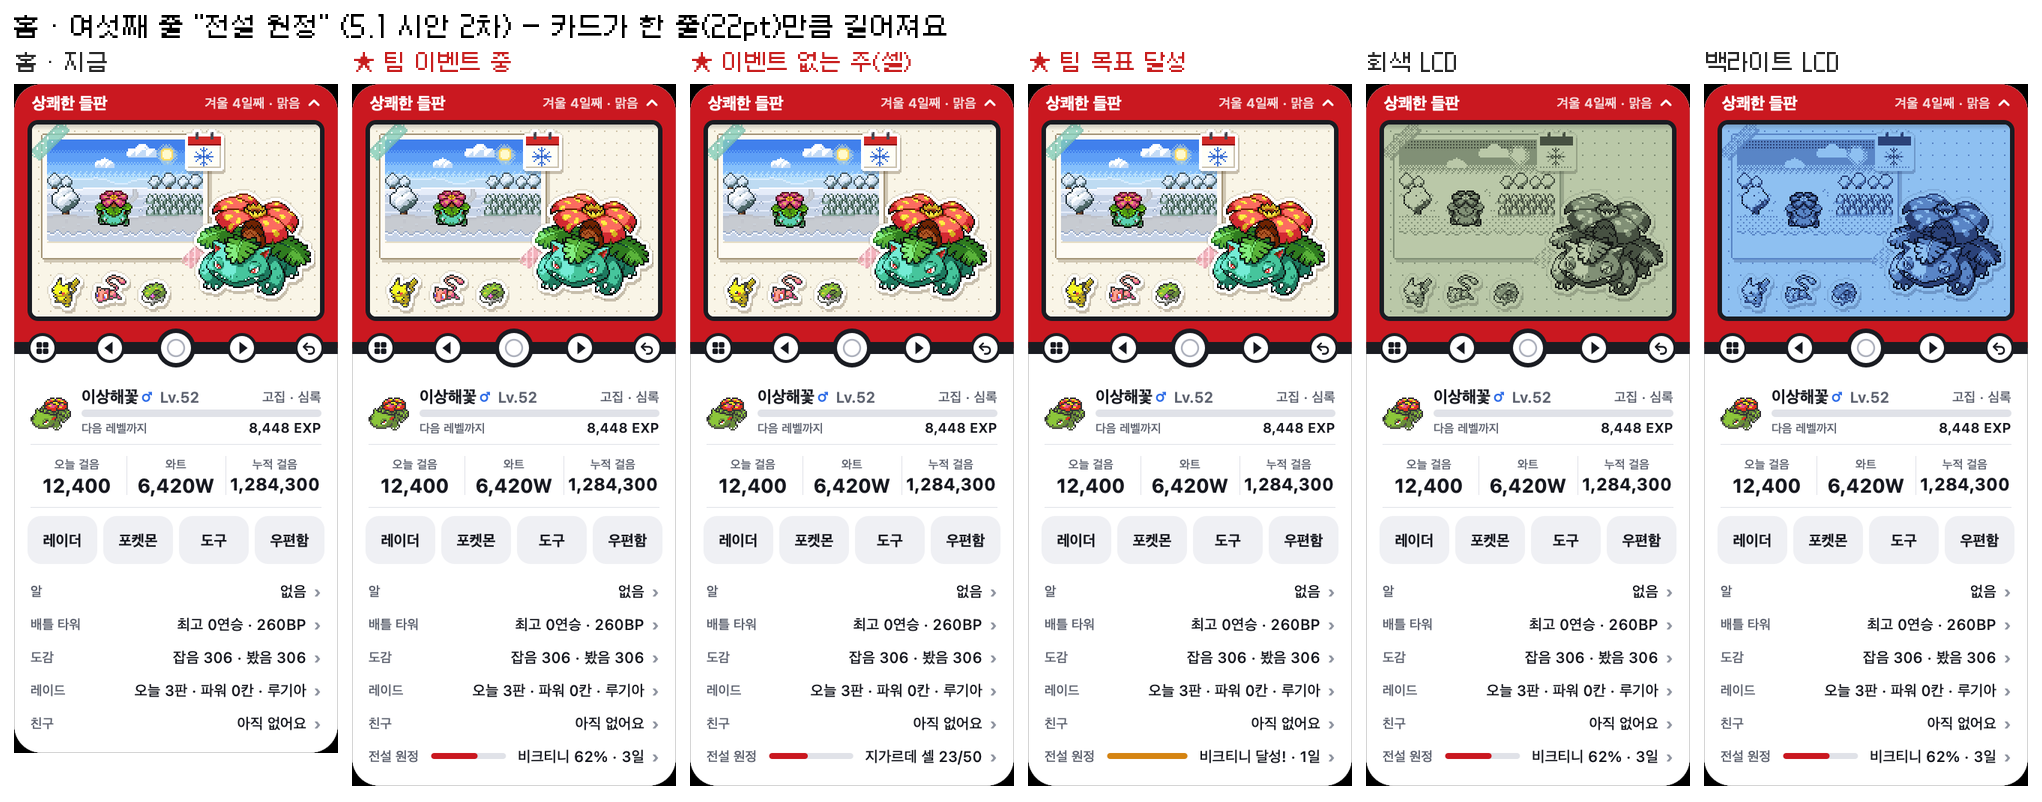
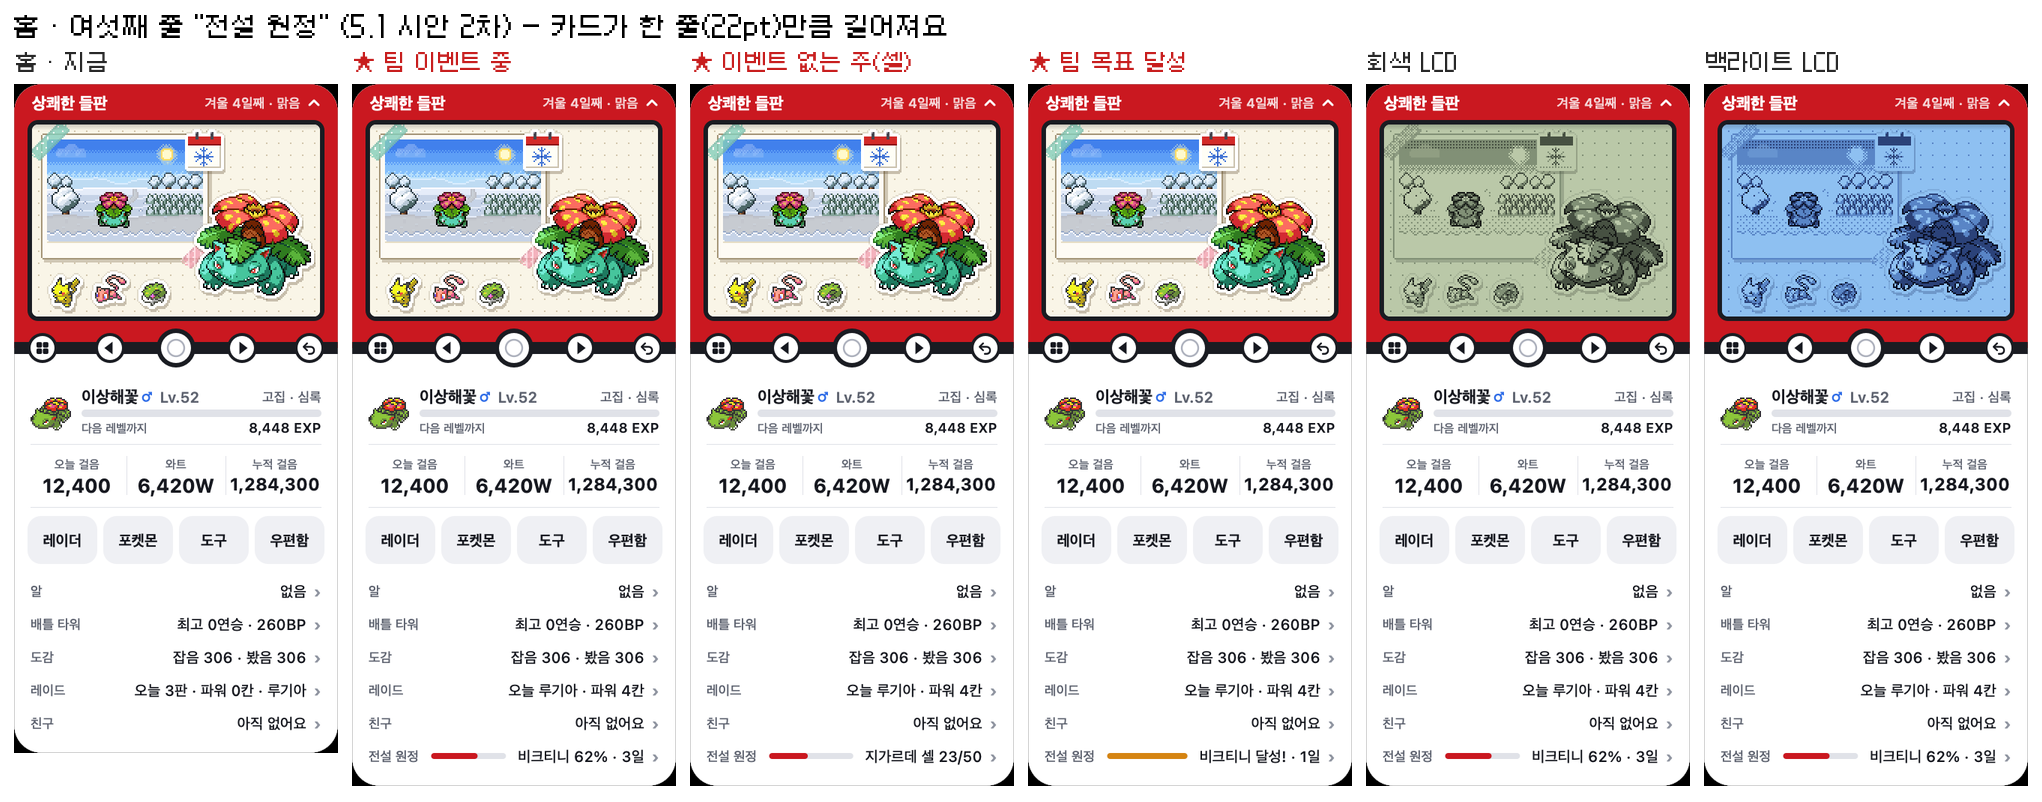
5.1 mockups, third round (the user via 회사 10-16: 레이드 its own tile, 우편함 into 친구 ▸, "친구 메뉴에 랭킹", the 친구 page's rank tabs into 랭킹, "우편 삭제", the 메가진화 tick "표시만 빠져"): the first page's eight (레이더 · 모험 · 포켓몬 · 기록 · 배틀 · 레이드 · 친구 · 상점), 레이드 ▸ · 배틀 ▸ · 친구 ▸ (친구 · 교환 · 랭킹 · 우편함, the mail's dot), 친구 (친구 · 신청 ·
Claude-Session: https://claude.ai/code/session_019KTwpKn2jnYrdo4Y4LYsjs

diff --git a/docs/mockups/exp-5.1/README.md b/docs/mockups/exp-5.1/README.md
@@ -7,6 +7,88 @@
   - 숫자(팀 93만 걸음, 셀 23개 등)는 시안용이에요. 실제 저장 모양(Walk.expeditions)과 act는 서버가 정해서 알려 줘요.
 - ★가 붙은 것이 추천안이에요.
 
+## 3차(10-16): 사용자 답 반영 — 지금 볼 것
+
+사용자 원문:
+- "1. 모험으로 바꾸고 코스와 전설원정 넣는 방식 2. 양호 3. 양호 4. 레이드를 아에 상위메뉴로 하나 빼고 …"
+- "다 한번에 모을거면 친구 메뉴에 랭킹을 넣자"
+- "친구창에 있는 걸음,도감,타워,레이드 이것도 랭킹 화면으로"
+- "상위 메뉴가 하나 늘어나게 되니까 우편함을 친구에 같이 넣어버리자"
+- "하는김에 우편함 우편 삭제 기능도 추가해줘"
+- 배틀 메가 체크: "표시만 빠져"
+
+확정되어 5.1 코드에 들어가는 것: 모험 ▸ 코스 · 전설 원정, 홈 여섯째 줄 "전설 원정", 원정은 한 번에 하나.
+
+### 3차 그림
+
+| 파일 | 내용 |
+|---|---|
+| `r3-menu.png` | 첫 쪽 8칸(1 레이더 · 2 모험 · 3 포켓몬 · 4 기록 · 5 배틀 · 6 레이드 · 7 친구 · 8 상점), 레이드 ▸ · 배틀 ▸ · 친구 ▸ · 모험 ▸ |
+| `r3-rank-1.png` · `r3-rank-2.png` | 친구 ▸ 친구(탭 친구 · 신청 · 맡기기 · 전체), 친구 ▸ 랭킹(걸음 · 도감 · 타워 · 레이드 · 메가 레이드, 친구 / 전체) |
+| `r3-mail-raid.png` | 우편 지우기(목록 · 받을 것이 남은 우편 · 공지), 홈(레이드 줄 · 여섯째 줄), 레이드 0시 직후 · 오늘의 보스, 메가 레이드 |
+| `mega-tick.png` | 배틀 메가진화 체크: 지금(누르면 빠져 보임) / 고친 뒤 |
+| `relearn-sig.png` | 기술 바꾸기에 들어온 고유기(서버 4187b09): 가이오가 근원의파동, 그란돈 단애의칼, 뮤츠 사이코브레이크 |
+| `r3-windows.png` | 3차 화면들의 Windows 렌더 |
+
+### 메뉴
+
+- 첫 쪽은 8칸 그대로예요. 숫자 키 1~8이 위 순서예요(5 배틀 · 6 레이드 · 7 친구 · 8 상점이 새 자리).
+- 레이드 ▸ 레이드 · 메가 레이드. 칸 설명은 "오늘 루기아 · 파워 4칸"이에요.
+- 배틀 ▸ 배틀 타워 · 대전. 칸 설명은 "최고 n연승"이고, 파워는 레이드 칸으로 갔어요.
+- 친구 ▸ 친구 · 교환 · 랭킹 · 우편함
+  - 받을 우편이 있으면 친구 칸에 빨간 점이 뜨고, 칸 설명이 "받을 우편 2통"이 돼요.
+  - 홈의 '우편함' 바로가기(빨간 점)는 그대로이고 바로 열려요.
+- 5.1 코드에서 챙길 것: 메뉴가 기억하는 마지막 칸(lastTile)과 묶음마다 마지막 줄(menuSlot)은 칸이 바뀌는 첫 실행에서 처음으로 돌려요. 옛 자리 번호가 다른 칸을 가리키거나 묶음 줄 수를 넘지 않게 해요.
+
+### 친구 · 랭킹
+
+- 친구 ▸ 친구: 탭은 친구 · 신청 · 맡기기 · 전체예요. 순위 탭은 랭킹으로 옮겼어요.
+  - '전체'는 서버가 모두에게 주면 보여요. 앱에는 경환 전용 가정이 없어요.
+- 친구 ▸ 랭킹: 이번 주 순위를 한곳에 모아요.
+  - 탭: 걸음 · 도감 · 타워 · 레이드(승 · 잡음 · 이로치) · 메가 레이드(승 · 스톤 n/48)
+  - 오른쪽 위 "친구 | 전체". 기본은 친구예요.
+  - 상위 10명과 나, 같은 값은 같은 순위예요. 메뉴의 랭킹 줄은 "이번 주 걸음 7위"예요.
+- 추천
+  - 랭킹에 "친구 | 전체"를 둬요. 전체 카드에 같은 값이 있으면 앱만으로 돼요.
+  - 레이드 로비의 '친구 이번 주' 탭은 그대로 둬요. 도전 직전에 친구 기록을 보는 자리라서요(로비에서는 4줄). 모두 모아 보는 곳은 랭킹이에요.
+- 서버에 필요한 것
+  1. 친구 카드(TeamCard)의 레이드 이번 주 기록이 지금 일반 · 메가 판을 같이 세요(raid_runs.kind를 가리지 않음).
+     - 레이드 탭은 일반 판만(kind 없음) 세야 해요.
+     - 메가 레이드 탭에 쓸 메가 판 이번 주 기록(승 · 판)을 새 필드로 주세요.
+  2. 전체(all) 카드에도 같은 값(레이드 · 메가 이번 주 · 메가스톤)을 주세요. 앱 가짜 서버는 전체 카드에 레이드 기록이 빠져 있었어요.
+
+### 우편 지우기
+
+- 우편을 열면 아래 오른쪽에 '지우기'가 있어요.
+  - 받을 것이 남은 우편은 '지우기'가 흐리고, 위에 "받을 것이 남아 있어요 · 받은 뒤에 지울 수 있어요"가 나와요.
+  - 공지와 받은 우편은 바로 지울 수 있어요.
+- 목록 아래에는 '모두 받기' 옆에 "받은 n통 지우기"가 있어요(확인 한 번). 확인은 Mac · Windows 기본 확인 창이라 그림이 없어요.
+- 지운 뒤에는 목록 · 빨간 점 · 친구 칸 설명 · 홈이 바로 바뀌어요. act 모양은 서버가 정해서 알려 줘요.
+
+### 배틀 메가진화 체크(표시만 빠짐)
+
+- 원인: 기술을 누르는 순간 앱이 체크를 끄는데, 서버 답이 올 때까지 기술 화면이 그대로 보여서 체크가 빠진 것처럼 보였어요.
+  - 메가진화는 실제로 돼요. 연출도 기술보다 먼저 나와요.
+- 고친 모양
+  - 체크는 서버 답이 올 때 꺼요.
+  - 체크한 동안 기술 카드 4장이 보라 테두리가 돼요.
+  - 기술 설명 칸에 "메가진화하고 화염방사를 써요 / 기술을 누르면 메가진화가 먼저 나와요"가 나와요.
+  - 우리 HP 상자 위에 보라 탭 "메가진화 ✓"가 붙어요. 메타그로스처럼 이름이 긴 포켓몬도 확인했어요.
+- 대전에서는 메가 버튼을 숨겨요(5.1 대전 버그 둘과 같이).
+
+### 기술 바꾸기 고유기
+
+- 가이오가 Lv.45+ 근원의파동, 그란돈 Lv.45+ 단애의칼, 뮤츠 Lv.100 사이코브레이크가 기술 바꾸기 목록 끝에 나와요. 앱은 서버의 relearnable을 그대로 써서 고칠 것이 없어요.
+- 따로 찾은 것: 기술 설명 글(MoveText)이 4세대 기술(467번)까지만 있어요. 그래서 이 셋을 포함해 5 · 6세대 기술 약 150개가 기술 설명 칸에 '분류 · 명중'만 나오고 설명 글이 없어요. 5.0부터 있던 일이에요.
+
+### 2차 그림에서 바로잡은 것
+
+- '0시 직후 · 기본 2칸'이 "오늘 2판"이던 것 → "오늘 0판"(`raid-daily.png`)
+- 홈의 레이드 줄이 옛 글이던 것 → "오늘 루기아 · 파워 4칸"(`exp-home.png`)
+- `raid-daily-menu.png`의 첫 쪽이 '코스'이고 메가 레이드가 없던 것
+  - 원인: 그 렌더의 walker가 content5 · 모험 시안을 꺼 둔 상태였어요.
+  - 이 그림은 지우고 `r3-menu.png`로 대신했어요.
+
 ## 2차(10-16): 사용자 답 반영
 
 사용자 원문: "1. 코스 칸 안에 넣는데 코스 -> 코스 선택이 좀 어색하지 않나? 2. 그냥 한줄 늘리는게 낫지 않아? 3. 좋아 4. 좋아"
@@ -26,7 +108,6 @@
 | `exp-menu.png` | 2차: 메뉴 ★모험 ▸, 탐험 ▸, 원정 칸 따로, 조립할 수 있을 때의 빨간 점 |
 | `exp-one.png` | 2차: 원정은 한 번에 하나(5.1 시작 전 · 지금, 5.2 미리보기 바꾸기 · 멈춤 → 이어 하기 · 지금 배회) |
 | `raid-daily.png` | 2차: 레이드 매일 교대(plan 20) 로비 — 지금 / 오늘의 보스 / 0시 직후 2칸 / 0칸 / 자정 2시간 전, 메가 레이드 |
-| `raid-daily-menu.png` | 2차: 레이드 매일 교대의 메뉴 · 홈 줄, 자정 전 빨간 점 |
 | `exp-windows.png` | 2차: 같은 화면을 Windows(GDI 글꼴)로 렌더. 홈 크기 2 · 3 · 4, 회색 LCD, 메뉴 세 안, 원정 화면, 특성패치, 그라시데아꽃 |
 | `exp-page.png` | 전설 원정 화면: 팀 이벤트 · 지가르데 · 나중 원정을 고를 때, 팀 목표 달성, 셀 50/50, 팀 이벤트가 없는 주 |
 | `exp-cells.png` | 셀을 모았을 때의 홈 알림, 조립 장면(LCD) 시간별 |
@@ -145,7 +226,7 @@
   - 하루 3판의 점은 없앴어요(하루 10판까지).
 - 자정 안내: 버튼 위 줄에 "자정까지 9시간 · 남은 파워는 0시에 사라지고 2칸부터 다시". 그래서 친구 목록은 4줄이고, 내가 4등 밖이면 4번째 줄이 나예요.
   - 자정 3시간 전부터 이 줄이 강조색이 돼요.
-  - 파워가 1칸 이상 남아 있으면 배틀 칸 · 레이드 줄에 빨간 점과 "파워 3칸 · 자정에 사라져요"가 나와요(지금의 '가득' 빨간 점 대신).
+  - 파워가 1칸 이상 남아 있으면 레이드 칸(3차; 2차 그림은 배틀 칸) · 레이드 줄에 빨간 점과 "파워 3칸 · 자정에 사라져요"가 나와요(지금의 '가득' 빨간 점 대신).
 - LCD: "오늘의 보스 / n시간 남음 / 내일 칠색조 / 파워 n칸"
 - 홈 레이드 줄: "오늘 루기아 · 파워 4칸"(자정 3시간 전부터 "· 2시간").
 - 그대로인 것: 주간 우편, 친구 '이번 주' 탭과 순위, 내 이번 주 기록 칩("이번 주 4판"), BP, 메가 보스별 20승 확정.
